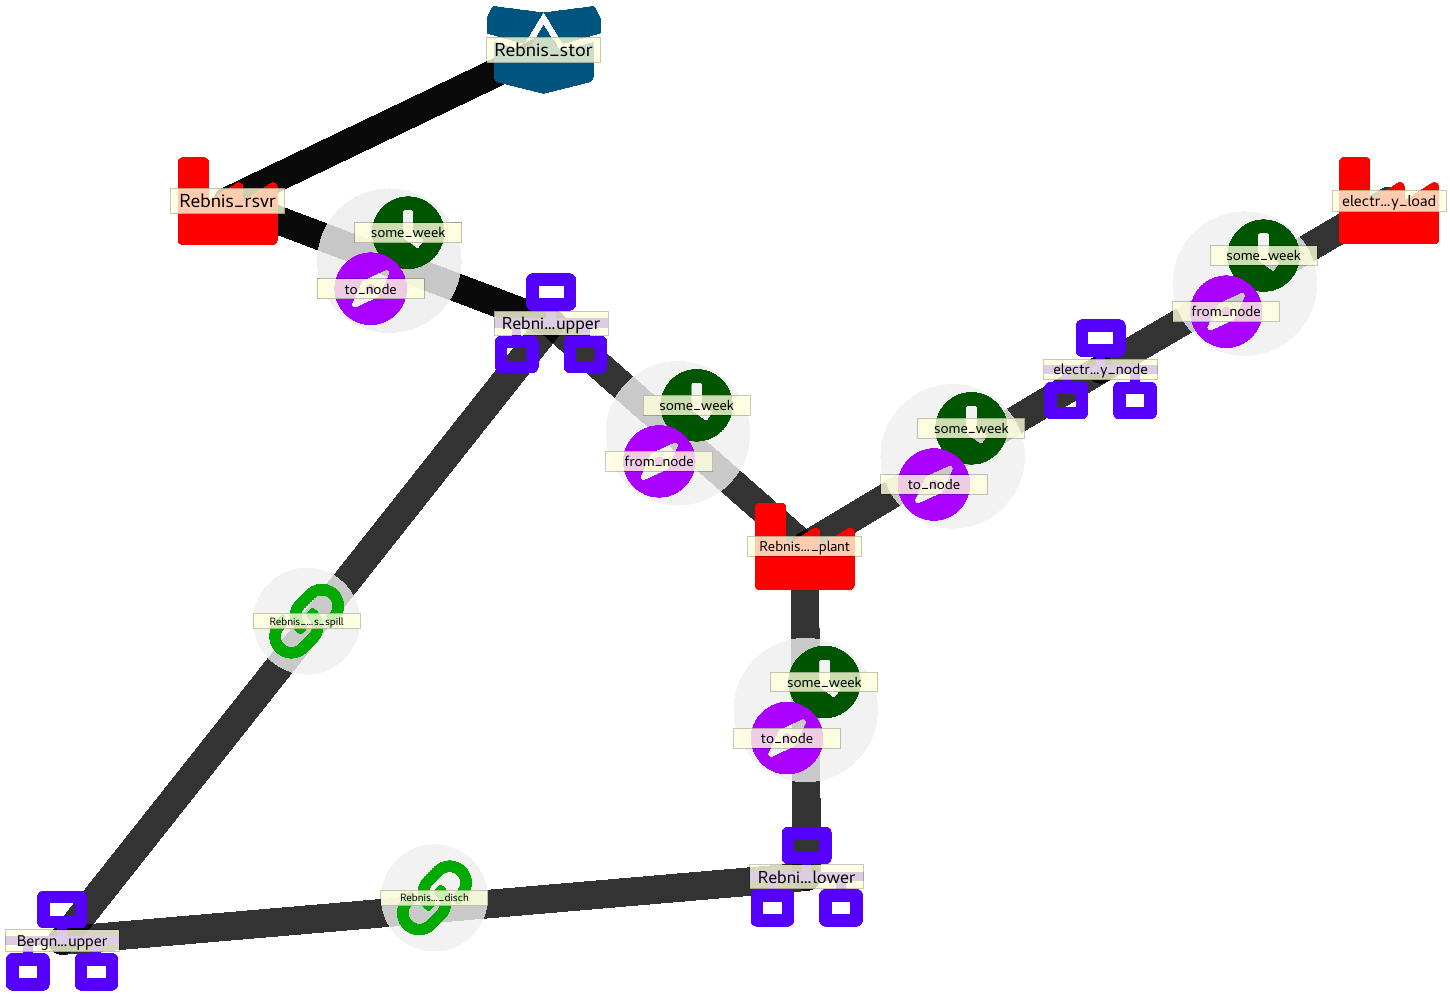
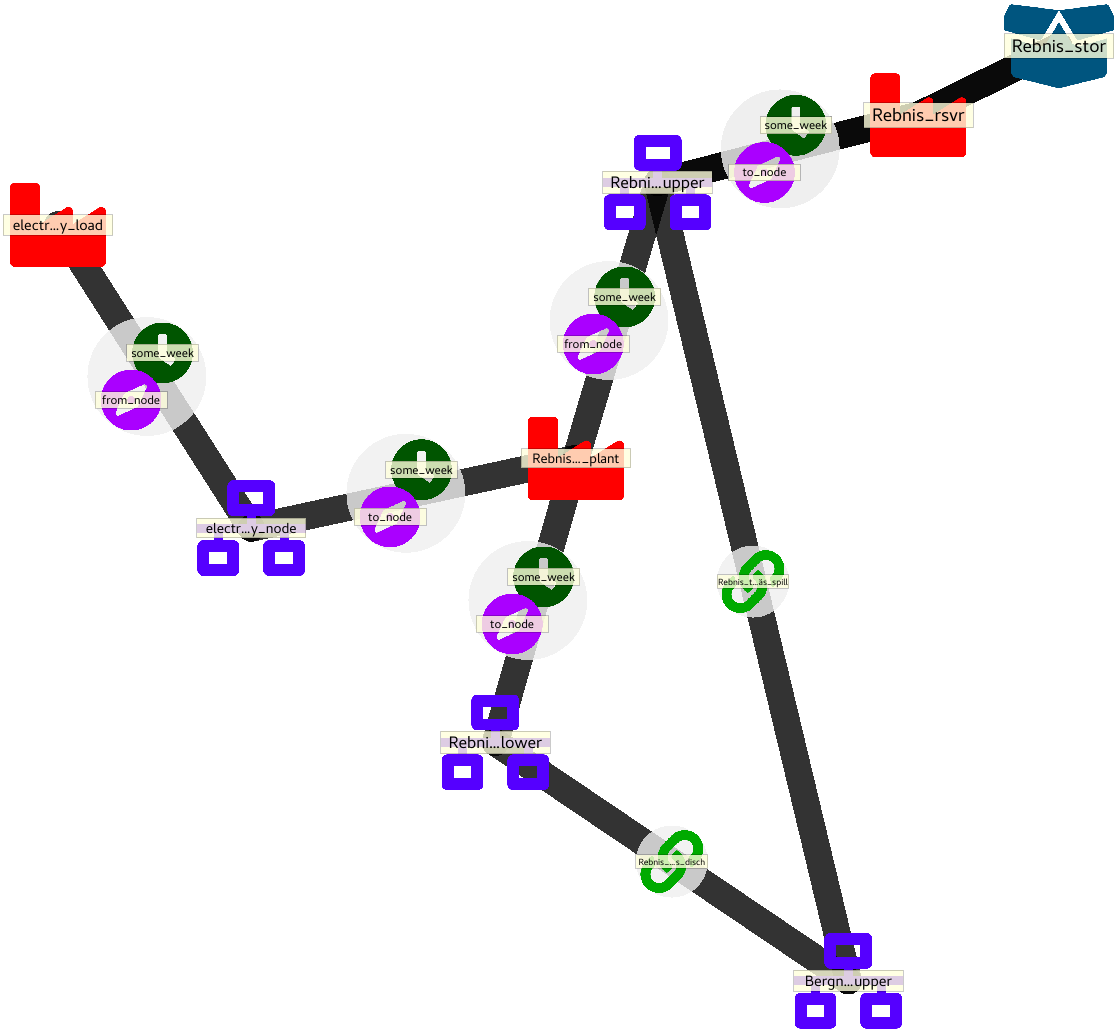
small visual changes in graphview

Changed region(s): [[0.0, 0.0, 1.0, 1.0]]

diff --git a/spinetoolbox/graphics_items.py b/spinetoolbox/graphics_items.py
@@ -1312,7 +1312,7 @@ class ObjectLabelItem(QGraphicsTextItem):
             self.setFont(scaled_font)
         else:
             self.setFont(self._font)
-        elided = QFontMetrics(self.font()).elidedText(text, Qt.ElideMiddle, self._width)
+        elided = QFontMetrics(self.font()).elidedText(text, Qt.ElideMiddle, 0.9 * self._width)
         self.setPlainText(elided)
 
     def keyPressEvent(self, event):
@@ -1349,19 +1349,18 @@ class ArcTokenItem(QGraphicsEllipseItem):
         self.arc_item = arc_item
         x = 0
         for j, name_tuple in enumerate(object_name_tuples):
-            object_item = SimpleObjectItem(self, object_extent, object_label_color, *name_tuple)
+            object_item = SimpleObjectItem(self, 0.875 * object_extent, object_label_color, *name_tuple)
             if j % 2 == 0:
                 y = 0
             else:
                 y = -0.875 * 0.75 * object_item.boundingRect().height()
                 object_item.setZValue(-1)
             object_item.setPos(x, y)
-            x += 0.875 * 0.5 * object_extent
+            x += 0.875 * 0.5 * object_item.boundingRect().width()
         rectf = self.childrenBoundingRect()
         offset = -rectf.topLeft()
         for item in self.childItems():
             item.setOffset(offset)
-
         rectf = self.childrenBoundingRect()
         width = rectf.width()
         height = rectf.height()
@@ -1403,7 +1402,7 @@ class SimpleObjectItem(QGraphicsPixmapItem):
         self.text_item.setTextWidth(extent)
         font = QApplication.font()
         point_size = font.setPointSize(extent / 8)
-        factor = max(0.75, 0.9 * extent / QFontMetrics(font).width(object_name))
+        factor = max(0.75, extent / QFontMetrics(font).width(object_name))
         if factor < 1:
             font.setPointSizeF(font.pointSize() * factor)
         self.text_item.setFont(font)

diff --git a/spinetoolbox/widgets/graph_view_widget.py b/spinetoolbox/widgets/graph_view_widget.py
@@ -326,7 +326,7 @@ class GraphViewForm(DataStoreForm):
             index = self.object_tree_model.indexFromItem(object_class_item)
             is_object_class_selected = self.ui.treeView_object.selectionModel().isSelected(index)
             # Fetch object class if needed
-            if is_root_selected or is_object_class_selected:
+            if is_root_selected or is_object_class_selected and self.object_tree_model.canFetchMore(index):
                 self.object_tree_model.fetchMore(index)
             for j in range(object_class_item.rowCount()):
                 object_item = object_class_item.child(j, 0)
